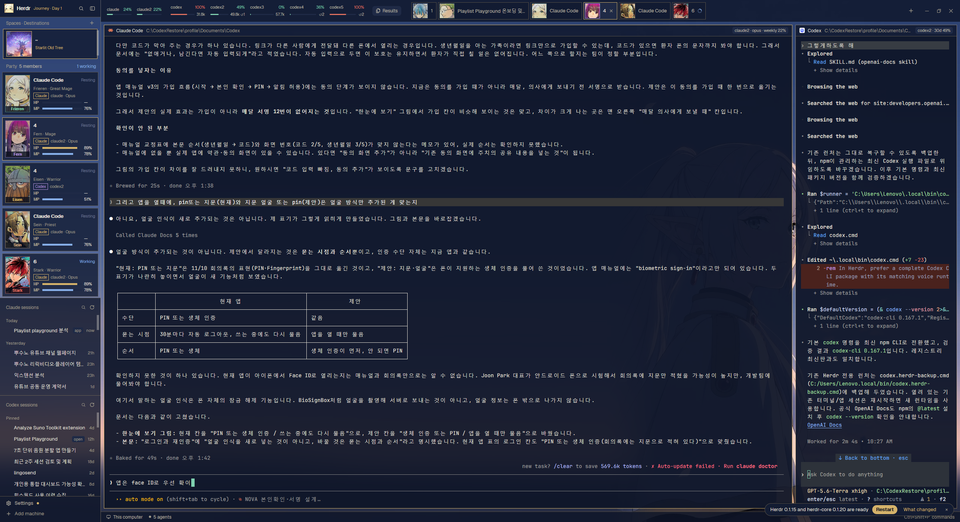
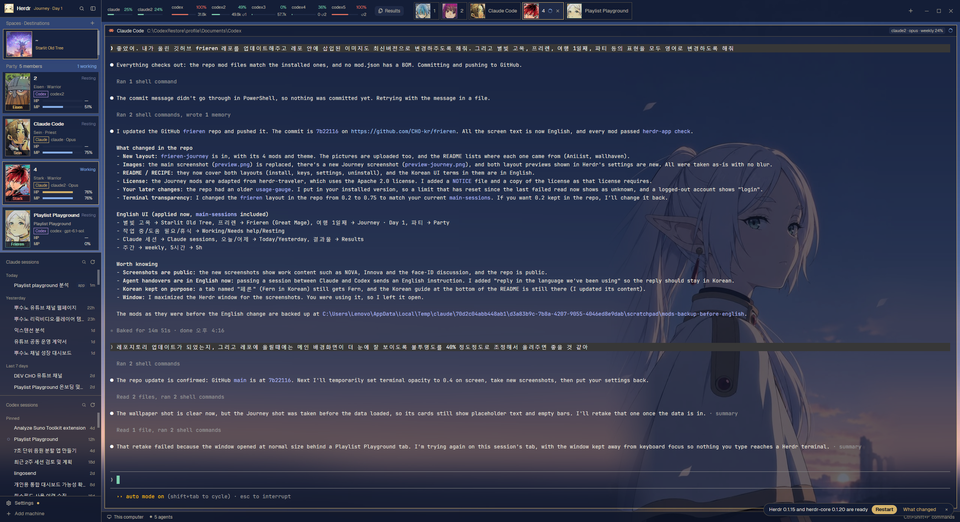
Terminals 40% opaque so the wallpaper shows; new screenshots
Both layouts in the repo now use terminal_opacity 0.4 (was 0.75).
preview.png, preview-journey.png and the settings previews are
retaken at that opacity. README and RECIPE say 40%.

diff --git a/RECIPE.md b/RECIPE.md
@@ -14,8 +14,8 @@ A second layout, **Frieren Journey**, puts the same tools in an RPG party look; 
 ## What you see
 
 Left to right: a 268px sidebar, then the work column. No system title bar (`"titlebar": "none"`).
-Behind everything is `backgrounds/frieren.jpg` (2560×1440, `fit: cover`). Terminals are 75% opaque
-(`terminal_opacity: 0.75`), so the picture shows through softly. Sidebars and bars are about 82% opaque.
+Behind everything is `backgrounds/frieren.jpg` (2560×1440, `fit: cover`). Terminals are 40% opaque
+(`terminal_opacity: 0.4`), so the picture shows through clearly. Sidebars and bars are about 82% opaque.
 
 **Sidebar** (268px, not resizable by drag; folds to a 44px rail with Ctrl+Shift+B), top to bottom:
 - Brand row, 46px: Herdr's own `workspace-chrome` (logo, search, sidebar toggle). Dragging it moves the window.
@@ -115,7 +115,7 @@ row 42px [`usage` (`usage-gauge`, 818px, `window_drag`), `tabs` (`tabs`, `window
 {mod: "pane-account"}, height: 30, position: "top", reveal: "always"}, border, focus, radius: 10, gap:
 8, lone: true}}`, `panel` column (hidden; a `panel-body` stack of `files` / `changes`), `results` block
 (`results-panel`, 400px, hidden)], `status` block (`workspace-status`, 28px)]. Root also sets
-`background`, `theme: {light: "frieren-paper", dark: "frieren-ink"}`, `terminal_opacity: 0.75`,
+`background`, `theme: {light: "frieren-paper", dark: "frieren-ink"}`, `terminal_opacity: 0.4`,
 `terminal_padding: [14, 12]`, `traffic_lights: [12, 16]`, `preview`. No node has its own background.
 
 **Shipped mods used**: `workspace-chrome`, `spaces`, `agents`, `tabs`, `files`, `changes`,
@@ -236,7 +236,7 @@ at the same path if you like.
 ## Done when
 
 - `herdr-app check` passes for each of the eight mod folders, and `layout.switch {name: "frieren"}`
-  shows the wallpaper through 75%-opaque terminals, the 268px sidebar with four lists, the gauges and
+  shows the wallpaper through 40%-opaque terminals, the 268px sidebar with four lists, the gauges and
   the tab pills in one 42px bar, and 30px pane headers.
 - Within a few seconds of opening, every account has a chip with a %, or `wait` with the wait in its
   tooltip. A click re-reads, and the tooltip lists every window with its reset time.
@@ -267,7 +267,7 @@ Frieren mods (it reads their caches) plus four of its own.
 ## What you see
 
 Same frame as Frieren: a 268px sidebar and the work column, no system title bar, `backgrounds/frieren.jpg`
-behind everything (`fit: cover`) and `terminal_opacity: 0.75`. Corners are square and frames are gold.
+behind everything (`fit: cover`) and `terminal_opacity: 0.4`. Corners are square and frames are gold.
 
 **Sidebar**, top to bottom:
 - Brand row, 46px (`journey-chrome`, `window_drag`): Frieren's face (22px) in a gold frame, `Herdr`, then

diff --git a/README.md b/README.md
@@ -37,7 +37,7 @@ Both layouts:
   folder, with image and video thumbnails, a preview window, and an "Attach to agent" button.
 - **Smart paste** (`Ctrl+V`): pastes text and copied files. A screenshot on the clipboard is saved as a
   PNG and attached, so Claude Code and Codex pick it up.
-- **Glass look**: terminals are 75% opaque over the wallpaper, and sidebars, menus and dialogs are
+- **Glass look**: terminals are 40% opaque, so the wallpaper shows through clearly, and sidebars, menus and dialogs are
   translucent too.
 
 Frieren Journey adds:
@@ -181,7 +181,7 @@ Log in once with each wrapper (`claude2`, `codex2`), then click the gauges to re
 
 - **Wallpaper**: replace `backgrounds/frieren.jpg` (same name), or change `background.image` in
   `layouts/frieren.json` / `layouts/frieren-journey.json`.
-- **Terminal see-through**: `terminal_opacity` in the layout (`0.75` now; `1` is solid, `0.2` shows the
+- **Terminal see-through**: `terminal_opacity` in the layout (`0.4` now; `1` is solid, `0.2` shows the
   wallpaper clearly).
 - **Usage bar width**: the `usage` block is a fixed `818px`, sized for 2 Claude and 5 Codex accounts.
   Allow about 78px per Claude chip, 104px per Codex chip and 90px for the button.
